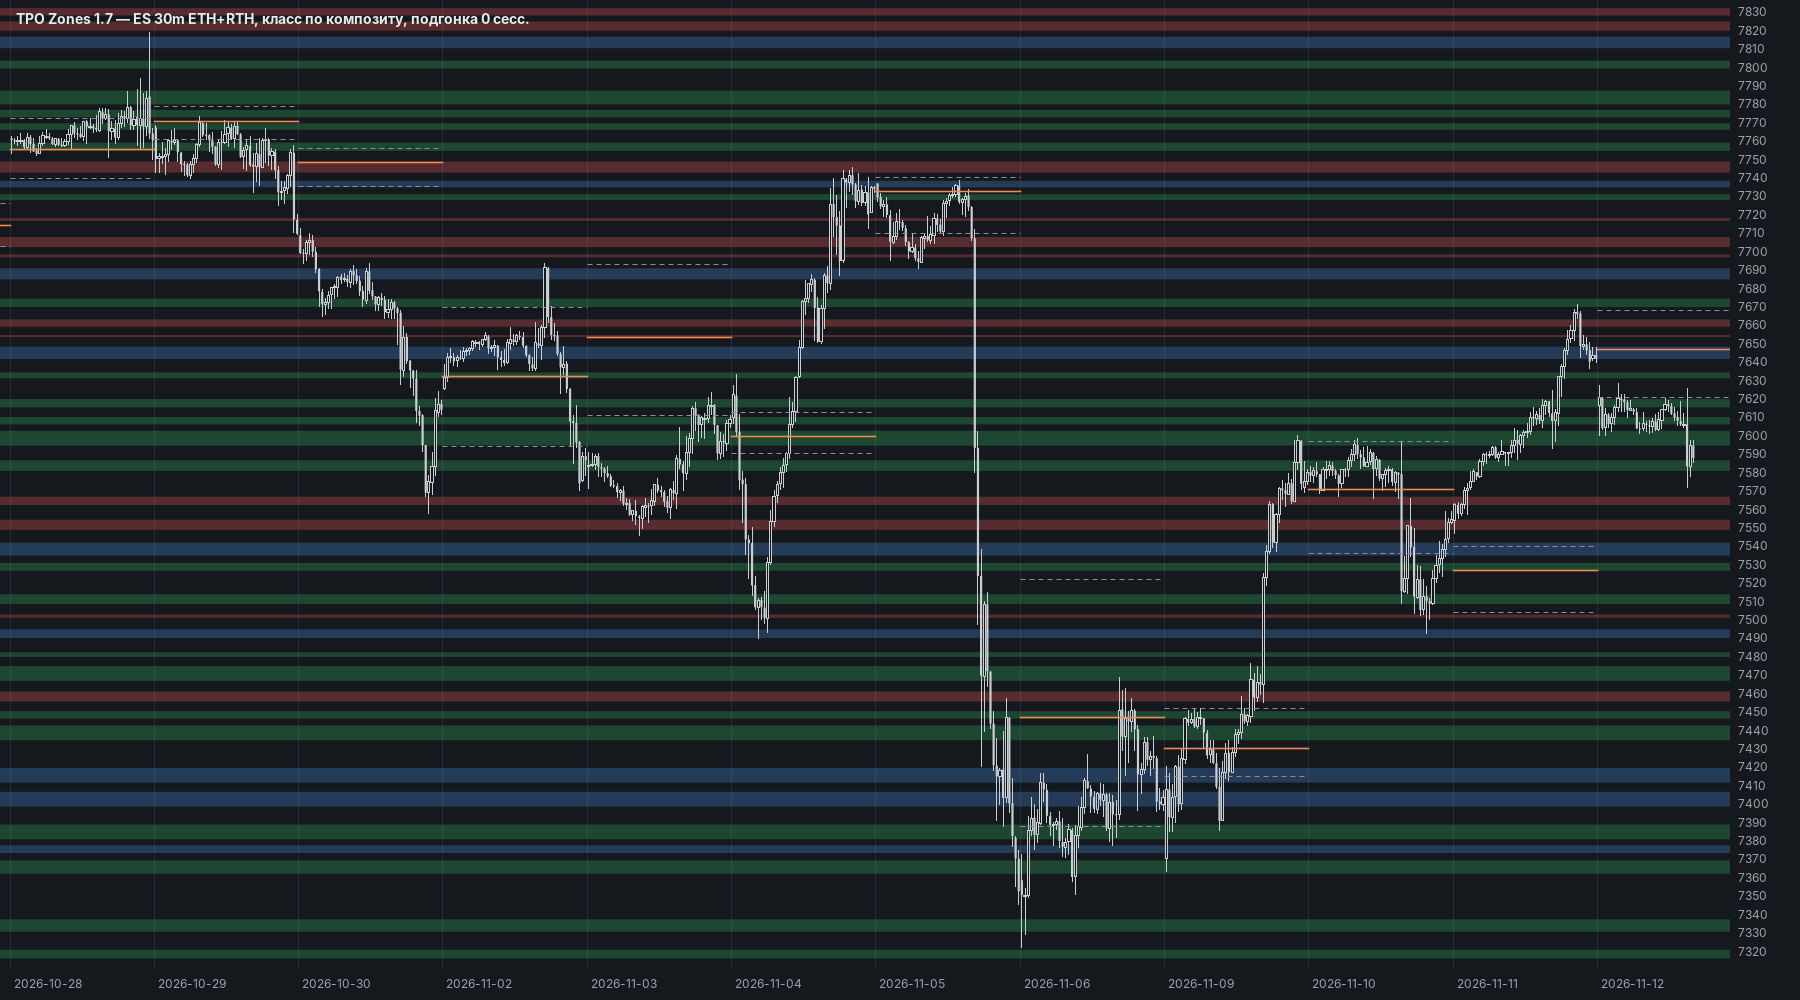
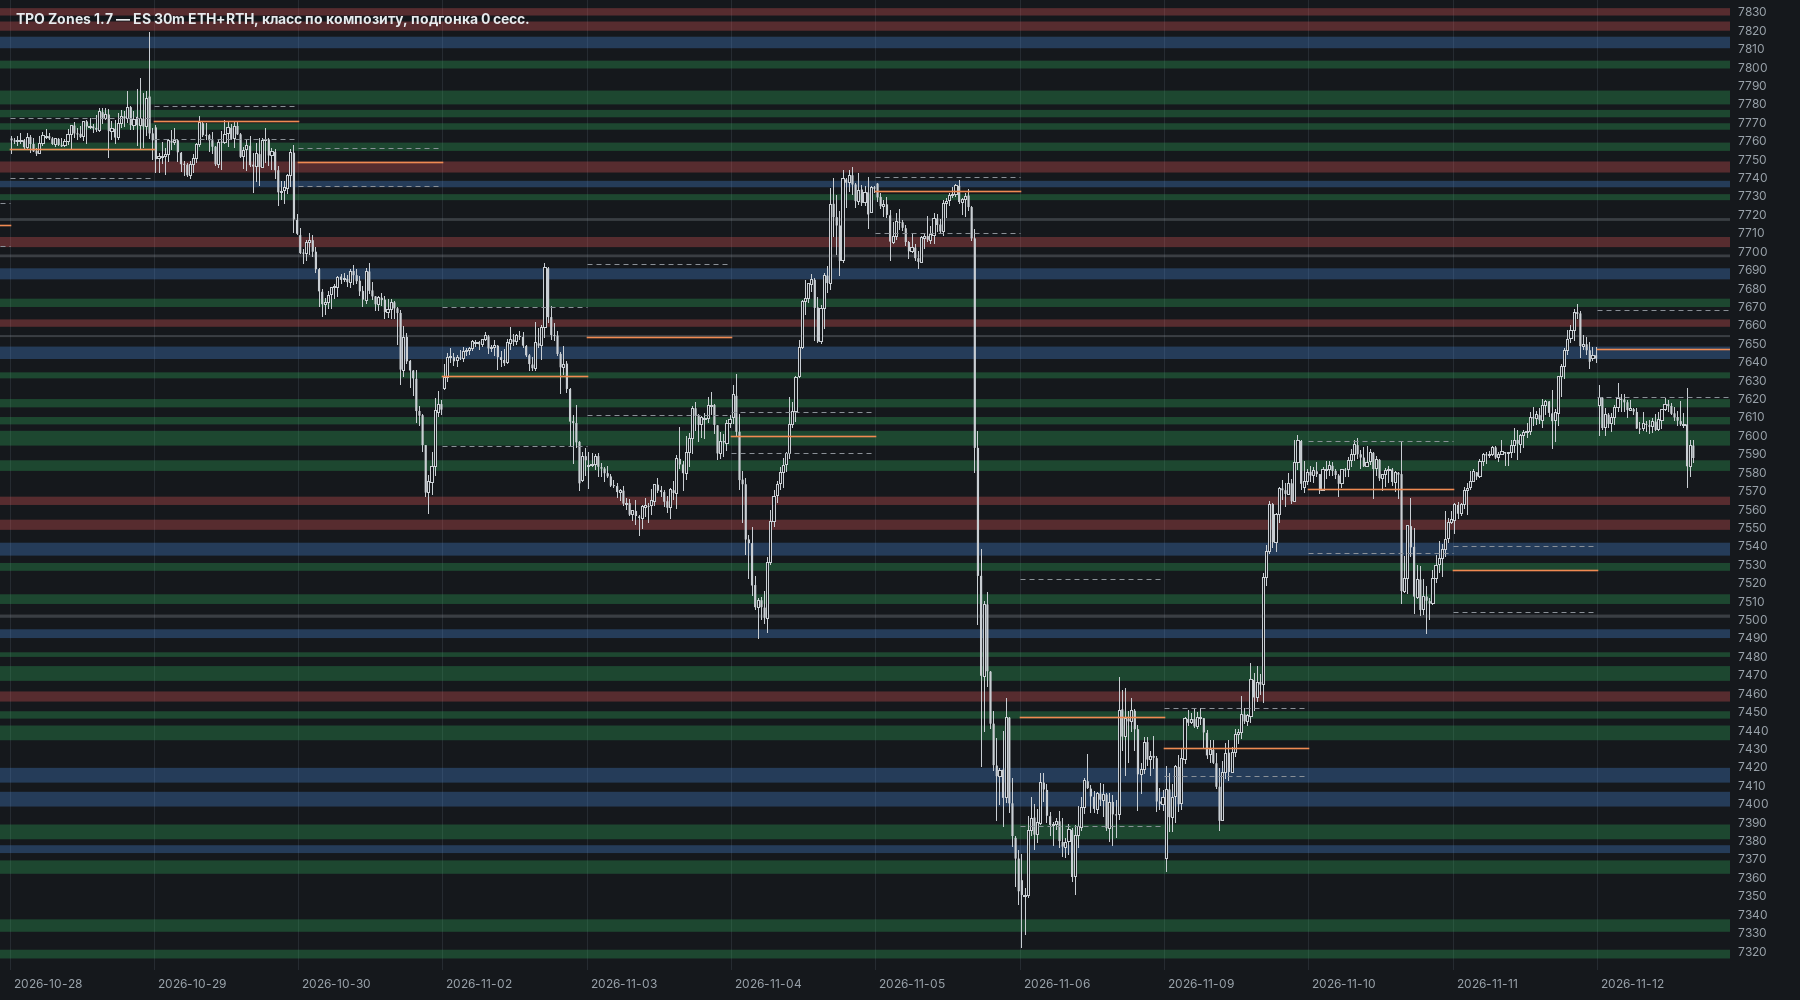
Zones narrower than 2 pts are grey
A zone narrower than 2 pts is minor and drawn grey, whatever colour the
composite or its birth session gave it (setting, 0 = off). Last session:
117 of 357 zones grey (33%, manual 26%; was 2). Same-colour bands over
40 pts: red 25 -> 5, green 34 -> 6, blue 1 -> 0. Colour match with
manual zones 32% -> 27% (manual narrow zones are often coloured). Jar
rebuilt, SDK calls unchanged.

Claude-Session: https://claude.ai/code/session_01PTkojwxsX3jzc4BttC3Khg

diff --git a/motivewave/src/patterns/zones/TpoZonesStudy.java b/motivewave/src/patterns/zones/TpoZonesStudy.java
@@ -56,7 +56,7 @@ import patterns.zones.ZoneEngine.Result;
 public class TpoZonesStudy extends Study {
 
     // ---- ключи настроек
-    static final String CORE_TOUCH = "sessCoreTouch", REFINE = "sessRefine", VA_PREV = "compVaPrevDay", RESYNC = "sessResyncLater", ROLL_BRK = "compRollBreak", ONE_COLOR = "drawOneColor", LIVE = "liveComposite", ROLL = "rollAdjust", ROLL_GAP = "rollMinGap", FALSE_BRK = "compFalseBreak", COMP_VA = "compVaOverlap", COMP_AND = "compJoinBoth", COMP_IN = "compInsideShare", COMP_OUT = "compOutsideDays", S_GAP = "sessMinGap", S_SHARE = "sessPeakShare", SESS = "sessionZones", S_PEAK = "sessMinPeak", S_BODY = "sessBody", CLUST = "bodyClusters", CL_DIP = "clusterDip", CL_MAX = "clusterMax", SUB_ADD = "subAddsZones", FIT_ETH = "fitEth", FIT_B = "fitBody", FIT_C = "fitCluster", PMAXB = "partMaxBody", PART = "partition", BODY = "bodyShare", PCORE = "partCore", PTGT = "partTarget", NODES = "coreNodes", NODE_DIP = "nodeDip", NODE_DROP = "nodeDrop", NO_OVERLAP = "noOverlap", MIN_PIECE = "minPiece", SHORT_DAYS = "compShortDays", SUB_OV = "subOverlap", SUB_RATIO = "subRatio", CLIFF = "coreCliff", CORE_DAYS = "coreMinDays", CORE_SESS = "coreFromSessions", JOIN_GAP = "joinGap", ZONE_W = "zoneMaxW", MODE = "compositeMode", CORE_VA = "coreByVa", BAR30 = "bar30", HISTORY_DAYS = "historyDays", TZ = "tz", RTH_START = "rthStart",
+    static final String GREY_NARROW = "greyNarrow", CORE_TOUCH = "sessCoreTouch", REFINE = "sessRefine", VA_PREV = "compVaPrevDay", RESYNC = "sessResyncLater", ROLL_BRK = "compRollBreak", ONE_COLOR = "drawOneColor", LIVE = "liveComposite", ROLL = "rollAdjust", ROLL_GAP = "rollMinGap", FALSE_BRK = "compFalseBreak", COMP_VA = "compVaOverlap", COMP_AND = "compJoinBoth", COMP_IN = "compInsideShare", COMP_OUT = "compOutsideDays", S_GAP = "sessMinGap", S_SHARE = "sessPeakShare", SESS = "sessionZones", S_PEAK = "sessMinPeak", S_BODY = "sessBody", CLUST = "bodyClusters", CL_DIP = "clusterDip", CL_MAX = "clusterMax", SUB_ADD = "subAddsZones", FIT_ETH = "fitEth", FIT_B = "fitBody", FIT_C = "fitCluster", PMAXB = "partMaxBody", PART = "partition", BODY = "bodyShare", PCORE = "partCore", PTGT = "partTarget", NODES = "coreNodes", NODE_DIP = "nodeDip", NODE_DROP = "nodeDrop", NO_OVERLAP = "noOverlap", MIN_PIECE = "minPiece", SHORT_DAYS = "compShortDays", SUB_OV = "subOverlap", SUB_RATIO = "subRatio", CLIFF = "coreCliff", CORE_DAYS = "coreMinDays", CORE_SESS = "coreFromSessions", JOIN_GAP = "joinGap", ZONE_W = "zoneMaxW", MODE = "compositeMode", CORE_VA = "coreByVa", BAR30 = "bar30", HISTORY_DAYS = "historyDays", TZ = "tz", RTH_START = "rthStart",
             RTH_END = "rthEnd", ETH_START = "ethStart", TICK = "tick", VA_PCT = "vaPct", HVN_SHARE = "hvnShare",
             HVN_MIN = "hvnMin", HVN_MAX = "hvnMax", GHVN_MIN = "greyHvnMin", GHVN_MAX = "greyHvnMax",
             MERGE_OV = "mergeOv", MERGE_W = "mergeW", COMP_DAYS = "compDays", GREY_HIST = "greyHist",
@@ -97,6 +97,7 @@ public class TpoZonesStudy extends Study {
         g.addRow(new DoubleDescriptor(FIT_B, "Подгонка по телам: меньше доли максимума тел свечей — пустота (0 — без подгонки)", 0.20, 0, 0.8, 0.05));
         g.addRow(new BooleanDescriptor(SESS, "Зоны из сессий: узлы RTH TPO дня, подогнанные по телам; композит задаёт роль и один раз перекрашивает", true));
         g.addRow(new DoubleDescriptor(S_GAP, "Сессионные зоны: узел ближе, п., к существующей зоне — её подтверждение (зазор между зонами)", 3.0, 0, 20, 0.5));
+        g.addRow(new DoubleDescriptor(GREY_NARROW, "Зона уже, п., — серая (минорная), какой бы цвет ни дали (0 — выкл.)", 2.0, 0, 10, 0.25));
         g.addRow(new BooleanDescriptor(CORE_TOUCH, "Сессионные зоны: синяя — только зона, задевающая ядро композита (≤ 10 п.), а не всё ядро тела", true));
         g.addRow(new BooleanDescriptor(REFINE, "Сессионные зоны: уточнение — внутри узла пошире все скопления тел свечей, каждое — зона (выкл. — одно скопление)", true));
         g.addRow(new DoubleDescriptor(S_SHARE, "Сессионные зоны: узел — вершина не ниже доли главного узла дня", 0.5, 0, 1, 0.05));
@@ -311,6 +312,7 @@ public class TpoZonesStudy extends Study {
         p.sessMinGapPts = st.getDouble(S_GAP, 3.0);
         p.sessRefine = st.getBoolean(REFINE, true);
         p.sessCoreTouch = st.getBoolean(CORE_TOUCH, true);
+        p.greyNarrowPts = st.getDouble(GREY_NARROW, 2.0);
         p.sessPeakShare = st.getDouble(S_SHARE, 0.5);
         p.sessBodyShare = st.getDouble(S_BODY, 0.5);
         p.clusterDip = st.getDouble(CL_DIP, 0.10);

diff --git a/motivewave/src/patterns/zones/ZoneEngine.java b/motivewave/src/patterns/zones/ZoneEngine.java
@@ -107,6 +107,7 @@ public final class ZoneEngine {
         public double sessMinGapPts = 3.0;        // узел ближе этого к существующей зоне (или пересекает её) — её подтверждение
         public boolean sessResyncLater = false;   // зону синхронизирует и более поздний композит, сложившийся на ней (роль — по последнему
                                                   // накрывшему); иначе — только первый композит после её рождения
+        public double greyNarrowPts = 2.0;        // зона уже стольких п. — серая (минорная), какой бы цвет ей ни дали; 0 — выкл.
         public boolean sessCoreTouch = true;      // синяя — только зона, задевающая ядро композита (≤ 10 п.), а не всё ядро тела
         public boolean sessRefine = true;         // уточнение: мнимая зона пошире (строки узла ≥ sessParentShare вершины, ± 1 п.), внутри —
                                                   // все скопления тел свечей сессии (не одно), каждое — зона
@@ -1448,6 +1449,12 @@ public final class ZoneEngine {
 
     // ------------------------------------------------------------------ состояние и фильтры
     public static State stateAt(Zone z, long o, Params p, long[] fullOrd) {
+        State st = stateAt0(z, o, p, fullOrd);
+        if (p.greyNarrowPts > 0 && st.kind != null && z.bhi - z.blo < p.greyNarrowPts - 1e-9) st.kind = Kind.GREY;   // узкая — серая
+        return st;
+    }
+
+    static State stateAt0(Zone z, long o, Params p, long[] fullOrd) {
         State st = new State();
         st.nl = lowerBound(z.L, o); st.ns = lowerBound(z.S, o);
         int tot = st.nl + st.ns;

diff --git a/motivewave/README.md b/motivewave/README.md
@@ -53,6 +53,11 @@
 Цвет совпадает с ручной разметкой в 31% против 23%. Цена — сплошных полос одного цвета шире 40 п. больше:
 синих 8 (было 4), красных 18 (17), зелёных 30 (17): каждый снимок красит тело композита по положению.
 
+**Узкая зона — серая** (по умолчанию 2 п.): зона уже 2 п. — минорная, серая, какой бы цвет ей ни дали
+композит или сессия рождения. В последней сессии серых 117 из 357 (33%, у ручных 26%; было 2). Сплошных полос
+одного цвета шире 40 п.: красных 25 → 5, зелёных 34 → 6, синих 1 → 0. Цвет с ручными 32% → 27%: у ручной
+разметки узкие зоны часто цветные (2024 — медиана ширины 2 п.).
+
 **Синяя — у ядра композита** (по умолчанию): синей становится только сессионная зона, задевающая ядро
 композита (полоса у POC до обрыва TPO, ≤ 10 п.); остальные зоны в теле композита — красные выше середины ядра,
 зелёные ниже. Раньше синим было всё «ядро тела» (строки ≥ 65% максимума TPO), у плоского профиля
